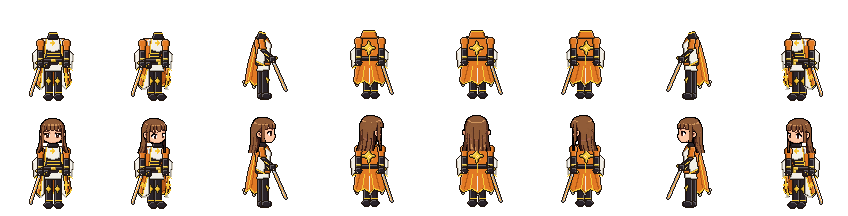
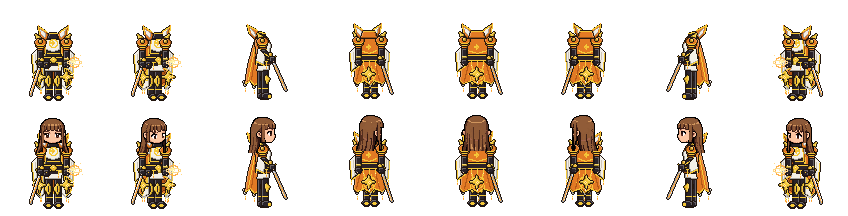
Magic Knight designs made as grand as the BladeMaster and Wizard
A tall flared collar, layered pauldrons with yellow points, yellow
filigree and a ringed compass medallion, a wide sash with crystals,
longer over-sleeves with crystal tassels, glowing crystals on every
point of the white layer, great knee guards and toe caps, a sword with a
winged guard and glowing runes, a compass sigil floating by the free
hand, and a great ringed compass star on the back.

Claude-Session: https://claude.ai/code/session_01YNjFsLY1wykPSJC6NrukSP

diff --git a/src/mknights.js b/src/mknights.js
@@ -1,12 +1,14 @@
 // Sprite designs for the Magic Knight, male and female, painted in code like the Blader and mage
 // designs (bladers.js, mages.js) on the bald bodies' frame, so the shared head and hair go on top
 // (docs/character-standard.md). After the owner's Magic Knight sheet, recoloured to the owner's
-// orange, white and yellow: an open orange coat edged in yellow over long white layers, white
-// over-sleeves hanging from the elbows over black gauntlets, a black shirt with a high collar and a
-// yellow compass star at the chest, crossed black belts with yellow buckles, black trousers and
-// boots with yellow knee guards (a white blouse, black corset, short white skirt and thigh-high
-// boots on her), a drawn sword held low whose blade glows orange along the edge, and a great
-// compass star on the coat's back.
+// orange, white and yellow, and made as grand as the BladeMaster and the Wizard (steel and spell):
+// an open orange coat worked with yellow filigree over long white layers whose points hang with
+// glowing crystals, a tall flared collar standing behind the head, layered orange pauldrons with
+// yellow points, long white over-sleeves with crystal tassels over black gauntlets, a black shirt
+// with a compass medallion, a wide black sash with crossed belts, black boots with great yellow knee
+// guards and toe caps (a white blouse, black corset, short white skirt and thigh-high boots on her),
+// a drawn sword with a winged yellow guard and glowing runes held low, a glowing compass sigil
+// floating by the other hand, and a great compass star in a ring on the coat's back.
 // Standing only for now (the design), 8 directions: the left ones are the right ones mirrored.
 // Not used in the game yet. Plain canvas, no three.js.
 import { Frame, ellipse, rect, poly, line } from './painted.js';
@@ -17,7 +19,7 @@ const LEGS = 63;                 // chin to ground, in pixels, in every directio
 const C = {
   coat: '#e27a24', fold: '#b45816', lining: '#f3efe7', liningDk: '#cfc7b8', trim: '#f4c838', shirt: '#2a2329',
   blouse: '#f3efe7', belt: '#2c2227', pants: '#25202a', boot: '#2a2329', skin: '#f2c8a2', gem: '#fff2a6',
-  core: '#ff9a2e', glove: '#2a2329', blade: '#dde1ea', glow: '#ffb04a',
+  core: '#ff9a2e', glove: '#2a2329', blade: '#dde1ea', glow: '#ffb04a', spark: '#ffd98a',
 };
 export const MKNIGHTS = { mknightM: { name: 'Magic Knight', sex: 'm' }, mknightF: { name: 'Magic Knight', sex: 'f' } };
 
@@ -39,14 +41,59 @@ function compass(F, x, y, big = false) {
   if (big) { F.dot(x - 1, y, C.gem); F.dot(x + 1, y, C.gem); F.dot(x, y - 1, C.gem); F.dot(x, y + 1, C.gem); }
 }
 
+// a thin ring of dots
+function ring(F, x, y, rx, ry, col) {
+  for (let a = 0; a < 64; a++) F.dot(x + Math.cos((a / 64) * 2 * Math.PI) * rx, y + Math.sin((a / 64) * 2 * Math.PI) * ry, col);
+}
+// a glowing crystal hanging on a short yellow chain
+function crystal(F, x, y, len = 2) {
+  F.part(line(x, y, x, y + len, 1), C.trim, flat);
+  F.dot(x, y + len + 1, C.gem); F.dot(x, y + len + 2, C.core); F.dot(x, y + len + 3, C.glow);
+}
+// one side of the tall collar: orange standing up behind the head and flaring out beside it, white
+// inside, edged in yellow. X(u): a point u pixels out from the middle on this side
+function collar(F, X, cy) {
+  const pts = [[X(4), cy + 3], [X(6), cy - 4], [X(15), cy - 10], [X(14), cy - 2], [X(10), cy + 4]];
+  F.part(poly(pts), C.coat);
+  F.part(poly([[X(7), cy + 1], [X(7), cy - 3], [X(13), cy - 7], [X(12), cy - 2], [X(9), cy + 2]]), C.lining, soft);
+  edge(F, pts.slice(1, 4), C.trim);
+  F.dot(X(15), cy - 11, C.core);
+}
+// a layered pauldron: two orange plates edged in yellow, a yellow point flaring up and out, a gem.
+// x: its middle; side: -1 on the viewer's left, 1 on the right
+function pauldron(F, x, cy, side, f) {
+  const w = f ? 4.5 : 5.5;
+  F.part(poly([[x - side * 2, cy + 2], [x + side * (w + 1), cy - 3], [x + side * (w - 1), cy + 3]]), C.trim);
+  for (const [dy, rw, rh] of [[9, w - 0.5, 2.5], [6, w + 0.5, 3.5]]) {
+    F.part(ellipse(x, cy + dy, rw, rh), C.coat);
+    F.part(line(x - rw * 0.6, cy + dy + rh - 0.5, x + rw * 0.6, cy + dy + rh - 0.5, 1), C.trim, flat);
+    F.dot(x - rw * 0.85, cy + dy + rh - 1.5, C.trim); F.dot(x + rw * 0.85, cy + dy + rh - 1.5, C.trim);
+  }
+  F.part(ellipse(x, cy + 5, 1.6, 1.6), C.trim);
+  F.dot(x, cy + 5, C.core);
+}
+// the glowing compass sigil floating by the free hand: a ring around a star, sparks about it
+function sigil(F, x, y) {
+  ring(F, x, y, 5, 5, C.glow);
+  ring(F, x, y, 7, 2.2, C.spark);
+  F.part(poly([[x, y - 4], [x + 1, y - 1], [x + 4, y], [x + 1, y + 1], [x, y + 4], [x - 1, y + 1], [x - 4, y], [x - 1, y - 1]]), C.gem, flat);
+  F.dot(x, y, '#ffffff');
+  for (const [dx, dy] of [[-7, -5], [6, -7], [8, 4], [-6, 7], [0, -9]]) F.dot(x + dx, y + dy, C.spark);
+}
+
 // the drawn sword, held low: the hilt in the hand at (x, y), the blade running to (tx, ty)
 function sword(F, x, y, tx, ty) {
   F.part(line(x, y, tx, ty, 2), C.blade);
   F.part(line(x + (tx - x) * 0.15, y + (ty - y) * 0.15 + 1, tx, ty, 1), C.glow, flat); // the glowing edge
   const nx = (ty - y), ny = -(tx - x), n = Math.hypot(nx, ny) || 1; // across the blade, for the guard
-  F.part(line(x - (nx / n) * 4, y - (ny / n) * 4, x + (nx / n) * 4, y + (ny / n) * 4, 2), C.trim);
+  for (const k of [0.35, 0.55, 0.75]) F.dot(x + (tx - x) * k, y + (ty - y) * k, C.core); // glowing runes
+  const ux = (tx - x) / Math.hypot(tx - x, ty - y), uy = (ty - y) / Math.hypot(tx - x, ty - y);
+  F.part(poly([[x - (nx / n) * 5 - ux * 2, y - (ny / n) * 5 - uy * 2], [x - (nx / n) * 2, y - (ny / n) * 2], [x + (nx / n) * 2, y + (ny / n) * 2],
+    [x + (nx / n) * 5 - ux * 2, y + (ny / n) * 5 - uy * 2], [x + (nx / n) * 3 + ux, y + (ny / n) * 3 + uy], [x - (nx / n) * 3 + ux, y - (ny / n) * 3 + uy]]), C.trim); // the winged guard
   F.dot(x, y, C.core);
-  F.part(line(x, y, x - (tx - x) * 0.12, y - (ty - y) * 0.12, 2), C.shirt); // the grip above the hand
+  F.part(line(x, y, x - ux * 4, y - uy * 4, 2), C.shirt); // the grip above the hand
+  F.part(ellipse(x - ux * 5, y - uy * 5, 1.5, 1.5), C.trim); // the pommel
+  F.dot(x - ux * 5, y - uy * 5, C.core);
 }
 
 function legs(F, o, cx, cy, r, toe) {
@@ -58,9 +105,11 @@ function legs(F, o, cx, cy, r, toe) {
     F.part(ellipse(mid + toe + (i ? 0.5 : -0.5), cy + 60.5, f ? 4 : 4.5, 2.5), C.boot);
     F.part(line(cx + a - (f ? 0 : 1) + sh, cy + knee, cx + b + (f ? 0 : 1) + sh, cy + knee, 1), C.trim, flat);
     const ky = cy + 45;
-    F.part(poly([[mid, ky - 4], [mid + 2.5, ky], [mid, ky + 4], [mid - 2.5, ky]]), C.trim);
+    F.part(poly([[mid, ky - 6], [mid + 3, ky - 2], [mid + 3, ky + 2], [mid, ky + 6], [mid - 3, ky + 2], [mid - 3, ky - 2]]), C.trim);
+    F.part(poly([[mid, ky - 3], [mid + 1, ky], [mid, ky + 3], [mid - 1, ky]]), C.boot, flat);
     F.dot(mid, ky, C.core);
-    F.part(line(mid - 3, cy + 56, mid + 3, cy + 56, 1), C.trim, flat);
+    F.part(line(mid - 3, cy + 53, mid + 3, cy + 53, 1), C.trim, flat);
+    F.part(ellipse(mid + toe + (i ? 0.5 : -0.5), cy + 61, 2, 1.2), C.trim, flat); // the toe cap
   });
 }
 
@@ -77,9 +126,11 @@ function paint(o, view, cx, cy) {
 // gauntlet with a yellow cuff. x0..x1: the arm's columns; side: -1 on the viewer's left. Returns the hand
 function arm(F, x0, x1, cy, side) {
   const out = side < 0 ? x0 : x1, inn = side < 0 ? x1 : x0;
-  F.part(poly([[out, cy + 13], [inn, cy + 13], [inn - side * 1, cy + 27], [out + side * 4, cy + 33], [out + side * 5, cy + 18]]), C.lining); // the over-sleeve
-  F.part(line(out + side * 5, cy + 19, out + side * 4, cy + 32, 1), C.liningDk, flat);
-  F.part(line(inn - side, cy + 28, out + side * 4, cy + 34, 1), C.trim, flat);
+  F.part(poly([[out, cy + 13], [inn, cy + 13], [inn - side * 1, cy + 29], [out + side * 5, cy + 37], [out + side * 6, cy + 18]]), C.lining); // the over-sleeve
+  F.part(line(out + side * 6, cy + 19, out + side * 5, cy + 36, 1), C.trim, flat);
+  F.part(line(out + side * 3, cy + 18, out + side * 2, cy + 33, 1), C.liningDk, flat);
+  F.part(line(inn - side, cy + 30, out + side * 5, cy + 38, 1), C.trim, flat);
+  crystal(F, out + side * 5, cy + 38, 1);
   F.part((set) => { ellipse((x0 + x1) / 2, cy + 7, 3.2, 3.5)(set); rect(x0, cy + 7, x1, cy + 14)(set); }, C.coat); // a rounded shoulder
   F.part(line(x0, cy + 14, x1, cy + 14, 1), C.trim, flat);
   F.part(rect(x0, cy + 15, x1, cy + 26), C.glove);
@@ -101,6 +152,10 @@ function frontView(F, o, cx, cy, s, r) {
   F.part(line(cx - W - 1, cy + 20, cx - W - 4, cy + hem - 6, 2), C.lining, flat);
   F.part(line(R(cx + W + 1), cy + 20, R(cx + W + 4), cy + hem - 5, 2), C.lining, flat);
   edge(F, back.map(([x, y]) => [x, y - 1]), C.trim);
+  for (const [x, y] of [[cx - W - 3, cy + hem - 2], [cx - 4, cy + hem + 4], [R(cx + W + 4), cy + hem + 4]]) { // the white layer's points behind
+    F.part(poly([[x - 3, y - 4], [x + 3, y - 4], [x, y]]), C.lining);
+    crystal(F, x, y + 1, 0);
+  }
   legs(F, o, cx, cy, r, s);
 
   // the body: a black shirt; on her, a white blouse over a black corset
@@ -123,6 +178,8 @@ function frontView(F, o, cx, cy, s, r) {
     const lp = [[mx, cy + 30], [mx, cy + hem], [(bx + mx) / 2, cy + hem + 3], [bx - side * 3, cy + hem + 3], [bx, cy + hem]];
     F.part(poly(lp), C.lining);
     edge(F, lp.slice(1, 4), C.liningDk);
+    crystal(F, (bx + mx) / 2, cy + hem + 4, 0);
+    crystal(F, bx - side * 3, cy + hem + 4, 0);
     const pts = f
       ? [[ix, cy + 3], [ox, cy + 3], [ox - side, cy + 16], [bx, cy + hem - 2], [bx - side * 3, cy + hem + 1], [mx + side * 2, cy + 32], [ix + side * 2, cy + 22]] // hers opens wide over the skirt
       : [[ix, cy + 3], [ox, cy + 3], [ox - side, cy + 16], [bx, cy + hem - 2], [bx - side * 3, cy + hem + 1], [mx, cy + hem - 4], [mx, cy + 30], [ix + side, cy + 22]];
@@ -131,29 +188,44 @@ function frontView(F, o, cx, cy, s, r) {
     F.part(line(ox - side * 2, cy + 20, bx - side * 2, cy + hem - 6, 1), C.fold, flat);
     // the lapel folded back, white inside
     F.part(poly([[ix, cy + 3], [ix + side * 4, cy + 4], [ix + side * 2, cy + 12]]), C.lining, soft);
-    compass(F, (bx + mx) / 2 + side, cy + hem - 9);
+    F.part(line(ix + side * 3, cy + 13, mx + side * 2, cy + hem - 6, 1), C.trim, flat); // filigree down the panel
+    for (const y of [36, 44]) F.dot(mx + side * 4, cy + y, C.trim);
+    compass(F, (bx + mx) / 2 + side, cy + hem - 9, true);
   }
 
-  // crossed black belts with yellow buckles; a pouch on her hip
-  F.part(rect(cx - hip, cy + 23, R(cx + hip), cy + 25), C.belt);
-  F.part(line(cx - hip, cy + 29, R(cx + hip), cy + 26, 2), C.belt, flat);
-  F.part(rect(cx - 2 + s, cy + 23, cx + 2 + s, cy + 25), C.trim, soft);
-  F.dot(cx + s, cy + 24, C.core);
+  // a wide black sash edged in yellow, crossed belts with yellow buckles, a pouch on her hip
+  F.part(rect(cx - hip - 1, cy + 21, R(cx + hip + 1), cy + 26), C.belt);
+  F.part(line(cx - hip - 1, cy + 21, R(cx + hip + 1), cy + 21, 1), C.trim, flat);
+  F.part(line(cx - hip - 1, cy + 26, R(cx + hip + 1), cy + 26, 1), C.trim, flat);
+  F.part(line(cx - hip, cy + 30, R(cx + hip), cy + 27, 2), C.belt, flat);
+  F.part(ellipse(cx + s, cy + 23.5, 2.8, 2.8), C.trim);
+  F.dot(cx + s, cy + 23.5, C.core); F.dot(cx + s, cy + 22.5, C.gem);
+  for (const dx of [-5, 5]) crystal(F, cx + dx + s, cy + 27, 3);
   F.part(rect(R(cx + hip - 4), cy + 26, R(cx + hip - 2), cy + 28), C.trim, soft);
   if (f) { F.part(rect(cx - hip + 1, cy + 26, cx - hip + 5, cy + 31), C.belt); F.dot(cx - hip + 3, cy + 28, C.trim); }
 
-  // the collar and the compass star at the chest
+  // the tall collar, the shirt's own collar, and the compass medallion at the chest with filigree
+  for (const side of [-1, 1]) collar(F, (u) => (side < 0 ? cx - u : R(cx + u)) + s, cy);
   F.part(poly([[cx - 4 + s, cy - 3], [cx + 4 + s, cy - 3], [cx + 5 + s, cy + 3], [cx - 5 + s, cy + 3]]), C.shirt);
   F.part(line(cx - 4 + s, cy - 3, cx + 4 + s, cy - 3, 1), C.trim, flat);
-  if (!f) F.part(line(cx + s, cy + 3, cx + s, cy + 21, 1), C.trim, flat); // the shirt's yellow placket
+  if (!f) {
+    F.part(line(cx + s, cy + 3, cx + s, cy + 20, 1), C.trim, flat); // the shirt's yellow placket
+    edge(F, [[cx - 6 + s, cy + 6], [cx - 3 + s, cy + 11], [cx + s, cy + 11]], C.trim);
+    edge(F, [[cx + 6 + s, cy + 6], [cx + 3 + s, cy + 11], [cx + s, cy + 11]], C.trim);
+  }
+  ring(F, cx + s, f ? cy + 7 : cy + 11, 4, 4, C.trim);
   compass(F, cx + s, f ? cy + 7 : cy + 11);
 
-  // the arms; the near hand holds the sword low, its blade angled out to the ground
+  // the arms and pauldrons; the near hand holds the sword low, its blade angled out to the ground,
+  // the sigil floats by the other
   const [hx, hy] = arm(F, cx - W - 4, cx - W, cy, -1);
-  arm(F, R(cx + W), R(cx + W + 4), cy, 1);
+  const [fx, fy] = arm(F, R(cx + W), R(cx + W + 4), cy, 1);
+  pauldron(F, cx - W - 2, cy, -1, f);
+  pauldron(F, R(cx + W + 2), cy, 1, f);
   sword(F, hx, hy, hx - 10, cy + 58);
   F.part(ellipse(hx, hy, 2.8, 2.6), C.glove); // the hand over the grip
   F.dot(hx - 1, hy + 2, C.skin);
+  sigil(F, fx + 8, fy - 2);
   return F;
 }
 
@@ -164,21 +236,30 @@ function backView(F, o, cx, cy, s, r) {
   F.part(poly([[cx - W, cy + 3], [R(cx + W), cy + 3], [R(cx + W + 1), cy + 8], [R(cx + waist), cy + 22], [R(cx + hip), cy + 30], [cx - hip, cy + 30], [cx - waist, cy + 22], [cx - W - 1, cy + 8]]), C.coat);
   // the coat's back over a white layer, split up the middle in pointed tails, the great compass star
   const tails = [[R(cx + W + 6), cy + hem - 3], [R(cx + W + 3), cy + hem], [R(cx + 6), cy + hem - 3], [cx + 1 + s, cy + hem + 1], [cx - 5 + s, cy + hem - 3], [cx - W - 3, cy + hem], [cx - W - 6, cy + hem - 3]];
-  for (const [x, y] of tails.filter((_, i) => i % 2 === 1)) F.part(poly([[x - 3, y - 3], [x + 3, y - 3], [x, y + 3]]), C.lining);
+  for (const [x, y] of tails.filter((_, i) => i % 2 === 1)) { F.part(poly([[x - 3, y - 3], [x + 3, y - 3], [x, y + 3]]), C.lining); crystal(F, x, y + 4, 0); }
   F.part(poly([[cx - W, cy + 4], [R(cx + W), cy + 4], [R(cx + W + 2), cy + 16], ...tails, [cx - W - 2, cy + 16]]), C.coat);
   edge(F, tails.map(([x, y]) => [x, y - 1]), C.trim);
   for (const [a, b] of [[-W + 2, -W - 2], [W - 2 - r, W + 2 - r]]) F.part(line(cx + a + s, cy + 30, cx + b + s, cy + hem - 4, 1), C.fold, flat);
   F.part(line(cx + s, cy + 34, cx + s, cy + hem - 2, 1), C.lining, flat); // the white layer in the split
   for (const side of [-1, 1]) F.part(line(cx + side * 5 + s - (side > 0 ? r : 0), cy + 32, cx + side * 7 + s - (side > 0 ? r : 0), cy + hem - 4, 1), C.trim, flat);
-  F.part(rect(cx - hip, cy + 23, R(cx + hip), cy + 25), C.belt);
-  compass(F, cx + s, cy + 14, true);
-  F.part(line(cx + s, cy + 21, cx + s, cy + 30, 1), C.trim, flat);
+  F.part(rect(cx - hip - 1, cy + 21, R(cx + hip + 1), cy + 26), C.belt); // the sash
+  F.part(line(cx - hip - 1, cy + 21, R(cx + hip + 1), cy + 21, 1), C.trim, flat);
+  F.part(line(cx - hip - 1, cy + 26, R(cx + hip + 1), cy + 26, 1), C.trim, flat);
+  for (const dx of [-6, 0, 6]) crystal(F, cx + dx + s, cy + 27, 3);
+  ring(F, cx + s, cy + 40, 6, 6, C.trim); // the great compass star in a ring, low on the coat
+  compass(F, cx + s, cy + 40, true);
+  for (const [dx, dy] of [[0, -9], [0, 9], [-9, 0], [9, 0]]) F.dot(cx + dx + s, cy + 40 + dy, C.trim);
+  compass(F, cx + s, cy + 13); // and a small one between the shoulders
+  edge(F, [[cx - W + 1 + s, cy + 16], [cx + s, cy + 19], [R(cx + W - 1) + s, cy + 16]], C.trim);
   // the arms; the sword in the far hand, on the viewer's right from behind
   arm(F, cx - W - 4, cx - W, cy, -1);
   const [hx, hy] = arm(F, R(cx + W), R(cx + W + 4), cy, 1);
   sword(F, hx, hy, hx + 10, cy + 58);
   F.part(ellipse(hx, hy, 2.8, 2.6), C.glove);
-  // the collar's back
+  pauldron(F, cx - W - 2, cy, -1, f);
+  pauldron(F, R(cx + W + 2), cy, 1, f);
+  // the tall collar and its back
+  for (const side of [-1, 1]) collar(F, (u) => (side < 0 ? cx - u : R(cx + u)) + s, cy);
   F.part(poly([[cx - 6 + s, cy - 3], [cx + 6 + s, cy - 3], [cx + 8 + s, cy + 4], [cx - 8 + s, cy + 4]]), C.coat);
   F.part(line(cx - 6 + s, cy - 3, cx + 6 + s, cy - 3, 1), C.trim, flat);
   return F;
@@ -188,7 +269,13 @@ function backView(F, o, cx, cy, s, r) {
 function side(F, o, cx, cy) {
   const { f, knee, hem } = build(o);
   const tails = [[cx - 18, cy + hem - 1], [cx - 13, cy + hem - 4], [cx - 9, cy + hem + 1], [cx - 4, cy + hem - 3]];
-  for (const [x, y] of [tails[0], tails[2]]) F.part(poly([[x - 2, y - 3], [x + 3, y - 3], [x, y + 3]]), C.lining);
+  for (const [x, y] of [tails[0], tails[2]]) { F.part(poly([[x - 2, y - 3], [x + 3, y - 3], [x, y + 3]]), C.lining); crystal(F, x, y + 4, 0); }
+  // the tall collar, standing behind the head
+  const cp = [[cx - 3, cy + 3], [cx - 6, cy - 5], [cx - 16, cy - 10], [cx - 14, cy - 2], [cx - 8, cy + 4]];
+  F.part(poly(cp), C.coat);
+  F.part(poly([[cx - 7, cy + 1], [cx - 8, cy - 3], [cx - 13, cy - 7], [cx - 12, cy - 2], [cx - 9, cy + 2]]), C.lining, soft);
+  edge(F, cp.slice(1, 4), C.trim);
+  F.dot(cx - 16, cy - 11, C.core);
   F.part(poly([[cx - 5, cy + 2], [cx - 9, cy + 8], [cx - 15, cy + 30], ...tails, [cx - 2, cy + 30]]), C.coat);
   F.part(line(cx - 7, cy + 12, cx - 12, cy + hem - 6, 1), C.fold, flat);
   F.part(line(cx - 9, cy + 14, cx - 15, cy + hem - 6, 1), C.trim, flat);
@@ -198,7 +285,10 @@ function side(F, o, cx, cy) {
     F.part(rect(x - 3, cy + knee, x + 2, cy + 58), C.boot);
     F.part(ellipse(x + 1, cy + 60.5, 4.5, 2.5), C.boot);
     F.part(line(x - 3, cy + knee, x + 2, cy + knee, 1), C.trim, flat);
-    F.part(poly([[x + 1, cy + 41], [x + 4, cy + 45], [x + 2, cy + 49]]), C.trim);
+    F.part(poly([[x + 1, cy + 39], [x + 5, cy + 44], [x + 2, cy + 50], [x, cy + 44]]), C.trim);
+    F.dot(x + 2, cy + 44, C.core);
+    F.part(line(x - 3, cy + 53, x + 2, cy + 53, 1), C.trim, flat);
+    F.part(ellipse(x + 4, cy + 61, 1.5, 1), C.trim, flat);
   };
   leg(cx - 2);
   leg(cx + 2);
@@ -213,9 +303,13 @@ function side(F, o, cx, cy) {
   F.part(poly([[cx - 7, cy + 2], [cx + 4, cy + 2], [cx + (f ? 8 : 7), cy + (f ? 10 : 8)], [cx + 6, cy + 22], [cx + 7, cy + 30], [cx - 7, cy + 30], [cx - 6, cy + 22], [cx - 8, cy + 8]]), C.coat);
   F.part(poly([[cx + 2, cy + 3], [cx + (f ? 8 : 7), cy + (f ? 10 : 8)], [cx + 6, cy + 22], [cx + 2, cy + 22]]), f ? C.blouse : C.shirt, soft);
   F.part(line(cx + 2, cy + 3, cx + 2, cy + 22, 1), C.trim, flat);
-  F.part(rect(cx - 7, cy + 23, cx + 7, cy + 25), C.belt);
-  F.part(line(cx - 7, cy + 28, cx + 7, cy + 26, 2), C.belt, flat);
-  F.part(rect(cx + 4, cy + 23, cx + 6, cy + 25), C.trim, soft);
+  F.part(rect(cx - 7, cy + 21, cx + 7, cy + 26), C.belt);
+  F.part(line(cx - 7, cy + 21, cx + 7, cy + 21, 1), C.trim, flat);
+  F.part(line(cx - 7, cy + 26, cx + 7, cy + 26, 1), C.trim, flat);
+  F.part(line(cx - 7, cy + 29, cx + 7, cy + 27, 2), C.belt, flat);
+  F.part(ellipse(cx + 6, cy + 23.5, 1.6, 2.5), C.trim); F.dot(cx + 6, cy + 23.5, C.core);
+  crystal(F, cx + 3, cy + 27, 3);
+  F.part(line(cx - 6, cy + 10, cx + 2, cy + 10, 1), C.trim, flat); // filigree on the coat
   // the collar
   F.part(poly([[cx - 4, cy - 3], [cx + 2, cy - 2], [cx + 3, cy + 4], [cx - 6, cy + 4]]), C.shirt);
   F.part(line(cx - 4, cy - 3, cx + 2, cy - 2, 1), C.trim, flat);
@@ -224,6 +318,8 @@ function side(F, o, cx, cy) {
   F.part(line(cx + 1, cy + 30, cx - 7, cy + 26, 1), C.trim, flat);
   F.part(poly([[cx - 4, cy + 4], [cx + 1, cy + 4], [cx + 3, cy + 14], [cx - 3, cy + 14]]), C.coat);
   F.part(line(cx - 3, cy + 14, cx + 3, cy + 14, 1), C.trim, flat);
+  crystal(F, cx - 7, cy + 27, 1);
+  pauldron(F, cx - 1, cy, -1, f);
   F.part(poly([[cx - 2, cy + 15], [cx + 3, cy + 15], [cx + 9, cy + 22], [cx + 6, cy + 25]]), C.glove);
   F.part(line(cx + 1, cy + 18, cx + 5, cy + 21, 1), C.trim, flat);
   const hx = cx + 9, hy = cy + 24;
